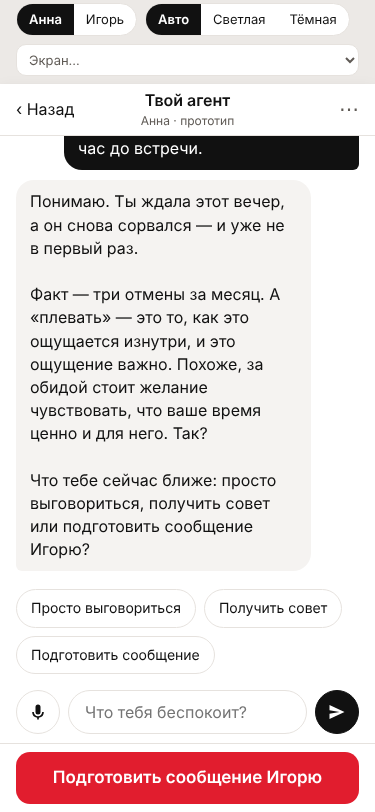
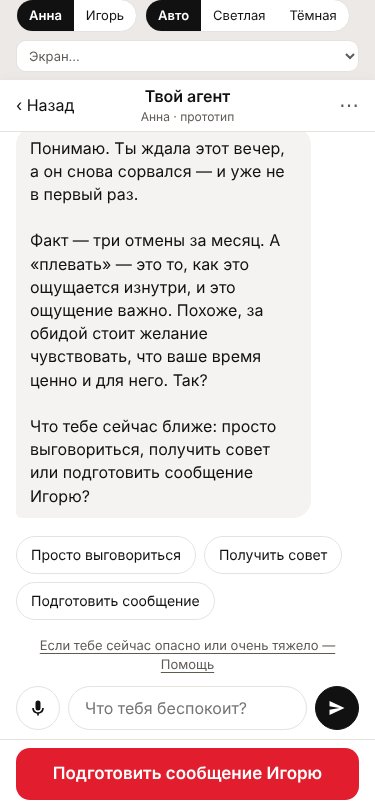
0.6: N-1, N-3, T-1 до Г1
N-1: агент получателя пересказывает и кладёт в память заготовку варианта только
при точном совпадении отправленного текста с вариантом (допускаются лишь
дописанные фразы из SOFTEN). При любой другой правке — без пересказа, в памяти
дословный текст.
N-3: вход в «Помощь» закреплён над полем ввода чата и виден при любой длине ленты.
T-1: everythingIgorSees учитывает значения полей (текст черновика) и проверяет,
что открыт второй вариант ответа; раздел 12 check.mjs (N-1, N-3). Скриншоты обновлены.

Claude-Session: https://claude.ai/code/session_01AqcptBBC6KZx7t7ManGXNk

Changed region(s): [[0.0, 0.0, 1.0, 0.8313], [0.0293, 0.8313, 0.968, 1.0], [0.9387, 0.8621, 0.968, 0.8929]]

diff --git a/frontend/prototype/app.js b/frontend/prototype/app.js
@@ -289,11 +289,17 @@
   }
   const softenable = (text) => SOFTEN.filter((r) => text.indexOf(r.from) !== -1);
 
-  // Какой заготовленный вариант лежит в отправленном тексте (правка может дописать фразы)
+  // Какой заготовленный вариант отправлен. Только точное совпадение (N-1): допускаются лишь дописанные
+  // фразы из SOFTEN — их смысл агент получателя знает и пересказывает отдельно. Любая другая правка —
+  // и агент получателя уже не пересказывает заготовку, а предлагает прочитать сообщение.
+  const norm = (t) => t.replace(/\s+/g, " ").trim();
   function findVariant(author, original) {
+    let core = original;
+    for (const r of SOFTEN) core = core.split(r.from + ".").join(" ").split(r.from).join(" ");
+    core = norm(core);
     const sets = DRAFTS[author];
     for (const name of Object.keys(sets)) {
-      const idx = sets[name].findIndex((v) => original.indexOf(v.text) !== -1);
+      const idx = sets[name].findIndex((v) => norm(v.text) === core);
       if (idx !== -1) return { set: name, idx };
     }
     return null;
@@ -307,11 +313,12 @@
   }
 
   // Запись в памяти получателя — только из одобренного текста (§6.3, ФТ-14)
-  function partnerMemoryFrom(author, ref) {
+  // Для неизвестного текста — дословная цитата отправленного, без пересказа
+  function partnerMemoryFrom(author, ref, original) {
     const v = variantOf(author, ref);
     if (v) return v.memory;
     const a = NAMES[author];
-    return a.nom + (a.fem ? " прислала" : " прислал") + " сообщение (агент не додумывает его смысл)";
+    return a.nom + (a.fem ? " написала" : " написал") + " (дословно): «" + original + "»";
   }
 
   // Пересказ входящего агентом получателя — только из того, что автор отправил (§6.2, §9.2 п.2)
@@ -441,7 +448,7 @@
     S.users[to].memory.push({
       id: "pm" + ++memSeq,
       cat: "partner",
-      text: partnerMemoryFrom(S.persona, variant),
+      text: partnerMemoryFrom(S.persona, variant, original),
       src: "одобренное сообщение " + NAMES[S.persona].gen + " · сегодня",
     });
     u.draft = null;
@@ -665,9 +672,12 @@
         html:
           '<section class="chat" data-screen="chat" aria-live="polite">' +
           '<div class="chat-day">Сегодня · этот разговор видишь только ты</div>' +
-          '<button type="button" class="help-link" data-action="go" data-to="help">Если тебе сейчас опасно или очень тяжело — Помощь</button>' + msgs +
+          msgs +
           (u.typing ? '<div class="msg msg--agent msg--typing" data-typing>Агент печатает…</div>' : "") + options +
           "</section>" +
+          // Низ чата закреплён: вход в «Помощь» виден всегда, при любой длине ленты (§9.3, N-3)
+          '<div class="chat-bottom">' +
+          '<button type="button" class="help-link" data-action="go" data-to="help">Если тебе сейчас опасно или очень тяжело — Помощь</button>' +
           (suggest.length && !u.typing
             ? '<div class="chips" data-suggest><span class="tiny muted" style="width:100%">Подсказка прототипа — нажми, чтобы вставить:</span>' +
               suggest.map((s) => '<button type="button" class="chip" data-action="suggest" data-text="' + esc(s) + '">' + esc(s) + "</button>").join("") + "</div>"
@@ -677,7 +687,7 @@
           '<button type="button" class="icon-btn" data-action="mic" aria-label="' + (u.recording ? "Закончить запись" : "Записать голосовое") + '" aria-pressed="' + u.recording + '">' + MIC + "</button>" +
           '<textarea id="chat-input" rows="1" data-model="input" placeholder="Что тебя беспокоит?" aria-label="Сообщение агенту">' + esc(u.input) + "</textarea>" +
           '<button type="button" class="icon-btn icon-btn--fill" data-action="send-agent" aria-label="Отправить агенту">' + SEND + "</button>" +
-          "</div>",
+          "</div></div>",
         main: hasOwn || u.replyContext ? { text: S.persona === "anna" ? "Подготовить сообщение " + p.dat : "Подготовить ответ " + p.dat, action: openDraft } : null,
       };
     },

diff --git a/frontend/prototype/styles.css b/frontend/prototype/styles.css
@@ -429,6 +429,7 @@ p { margin: 0 0 12px; }
 .contact:last-child { border-bottom: 0; }
 .contact__phone { display: inline-block; font-weight: 700; font-size: 18px; color: var(--text); text-underline-offset: 3px; padding: 4px 0; }
 .contact__phone .small { font-weight: 400; color: var(--text-muted); }
+.chat-bottom { position: sticky; bottom: -8px; margin: 0 -16px -8px; padding: 4px 16px 8px; background: var(--bg); display: flex; flex-direction: column; z-index: 1; }
 .help-link { align-self: center; border: 0; background: transparent; font-size: 13px; color: var(--text-muted); text-decoration: underline; text-underline-offset: 3px; padding: 4px 8px; }
 
 /* --- Тост --- */

diff --git a/docs/tasks/0.6.md b/docs/tasks/0.6.md
@@ -39,7 +39,7 @@
 
 Результат A4: открыть `frontend/prototype/index.html` (файлом или с телефона через любой статический
 сервер); панель над «телефоном» переключает сторону «Анна / Игорь», тему и экран. `node frontend/prototype/check.mjs` —
-192 проверки, все пройдены (раунд 2); скриншоты пишутся во временный каталог, закоммиченные
+202 проверки, все пройдены (после раунда 2); скриншоты пишутся во временный каталог, закоммиченные
 `frontend/prototype/screens/{light,dark}-*.png` обновляются флагом `--update-screens`. Кризисные контакты на «Помощи»
 и цены на «Подписке» — выдуманные заглушки до закрытия [уточняется] (§9.3, §11). Проверка на телефоне — оператор, гейт Г1.
 
@@ -53,3 +53,4 @@
 | Раунд | A6 Ревьювер | A8 Тестировщик | Исправлено |
 | --- | --- | --- | --- |
 | 1 | НА ИСПРАВЛЕНИЕ: M1–M4 (MAJOR), m1–m8, t1–t5 | ПРИНЯТО, 8 MINOR (D-1…D-8) | Раунд 2 (A4): M1 — смягчение только заданных фраз целиком (SOFTEN), остальное слово в слово, «что изменено» только при реальной замене; M2 — пересказ агента получателя строится из отправленного варианта, для неизвестного текста — без пересказа; M3 — варианты ответа Игоря без исповеди и памяти Анны (наборы reply/neutral); M4 — если нажатие MainButton само открыло «Отправить»/«Оплатить», кнопка 600 мс не принимает нажатий (без визуального мигания); m1/D-4 — запись памяти из одобренного варианта, верный род; m3 — выделение изменённых фраз в адаптации и оригинале; m4 — «Помощь» из чата, номера tel:; m5 — до пары без пробного отсчёта и оплаты, без «без лимита»; m6 — подтверждение «Другой вариант» после правки; m7 — «✕» (aria-label «Закрыть») в шапке, короткий плейсхолдер; m8 — подсказка только для смягчаемых фраз; D-1 — текст «непрочитанное» цветом --text; D-2 — затемнение диалога под шапкой; D-5 — aria-label переключателей; D-7/t4 — скриншоты во временный каталог, `--update-screens`; t2/t3/t1 — тесты 8–11 в check.mjs. Не делалось по решению A0: m2 (АР-18, Г1), D-3/D-8 (Б-21, задача 1.5), t5 (CI после Г1) |
+| 2 | ПРИНЯТО; MINOR N-1, N-3, T-1 — до Г1; N-2 → Б-22 | ПРИНЯТО | A4: N-1 — пересказ и память получателя только при точном совпадении с вариантом (допускаются лишь дописанные фразы SOFTEN), иначе агент предлагает прочитать сообщение, а в память идёт дословный текст; N-3 — вход в «Помощь» закреплён над полем ввода чата; T-1 — проверка приватности учитывает значения полей и второй вариант ответа Игоря, раздел 12 check.mjs (N-1, N-3) |
